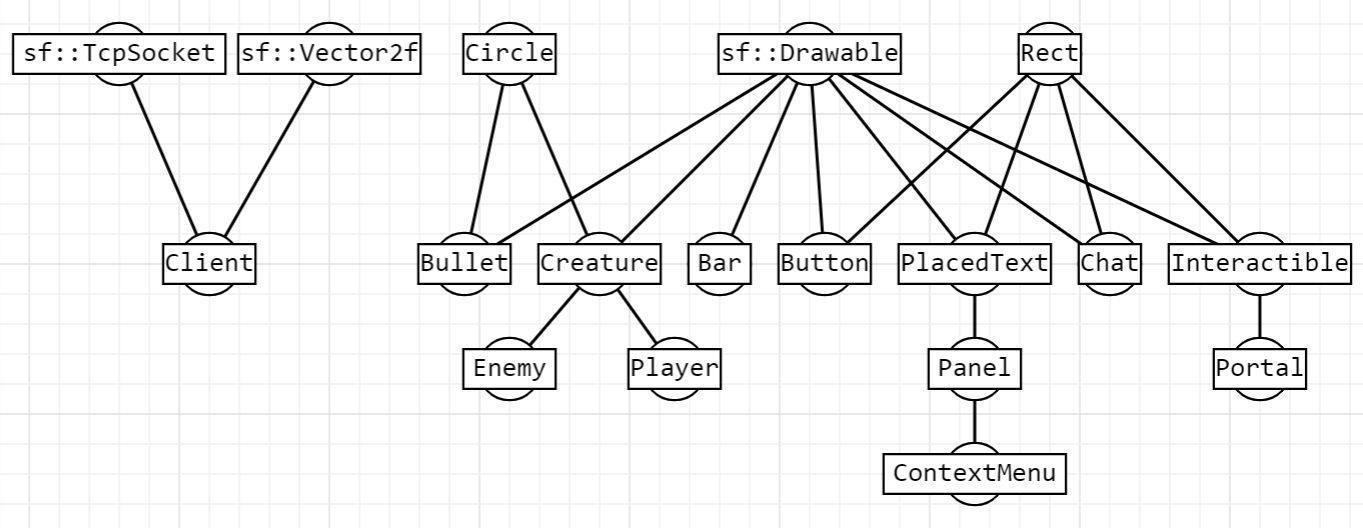
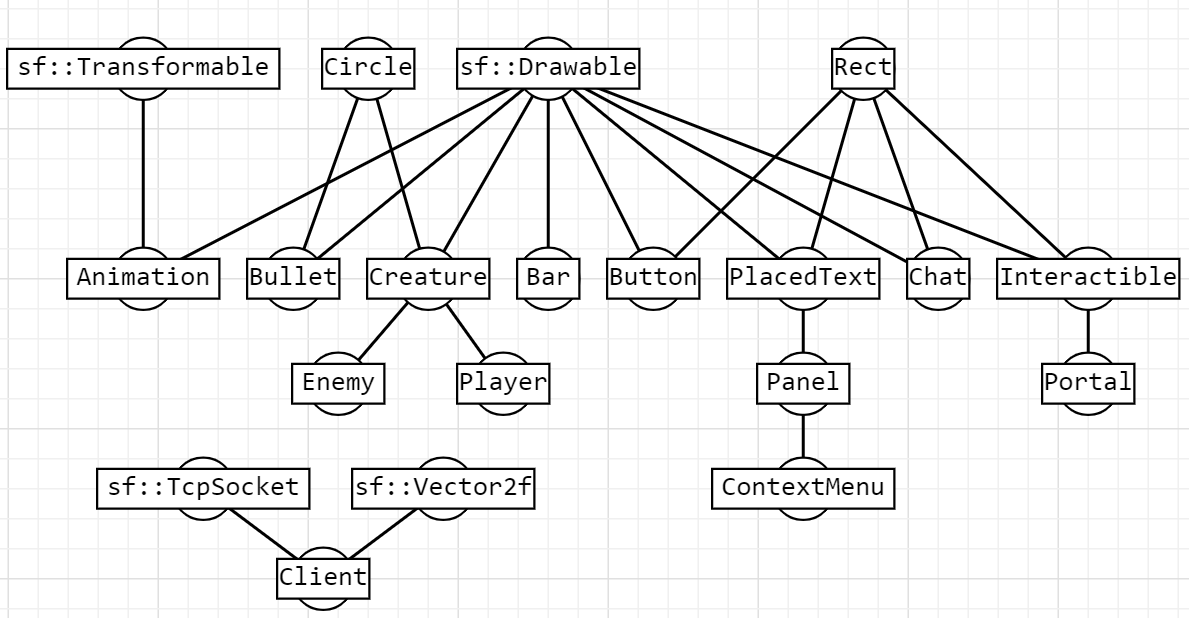
replace sprite to animation at player and enemies

Changed region(s): [[0.0, 0.0303, 0.9958, 1.0], [0.8402, 0.303, 0.8713, 0.3636]]

diff --git a/Headers/animation.h b/Headers/animation.h
@@ -1,11 +1,10 @@
 #include "../SFML-2.5.1/include/SFML/Graphics.hpp"
-#include "scale.h"
 
 ////////////////////////////////////////////////////////////
 // Class
 ////////////////////////////////////////////////////////////
 
-class Animation : public sf::Drawable {
+class Animation : public sf::Drawable, public sf::Transformable {
 public:
     sf::Texture texture;
     mutable sf::Sprite sprite;
@@ -17,16 +16,18 @@ public:
     bool isPlaying;
 
     Animation(std::string TexturFileName, int FrameAmount, sf::Vector2f frameSize, sf::Time duration);
+    void setTexture(std::string name);
     void draw(sf::RenderTarget& target, sf::RenderStates states = sf::RenderStates::Default) const;
+
     void play();
     void pause();
     void stop();
-    void setPosition(sf::Vector2f position) { sprite.setPosition(position); }
-    sf::Vector2f getPosition() const { return sprite.getPosition(); }
-    void setSize(sf::Vector2f size) {
-        sprite.setScale(sprite.getTextureRect().width / size.x, sprite.getTextureRect().height / size.y);
-    }
-    sf::Vector2f getsize() const { return {sprite.getGlobalBounds().width, sprite.getGlobalBounds().height}; }
+
+    void setSize(sf::Vector2f size);
+    sf::Vector2f getSize() const;
+    sf::Vector2f getGlobalSize() const;
+    sf::Vector2f getLocalSize() const;
+
 };
 
 ////////////////////////////////////////////////////////////
@@ -35,6 +36,7 @@ public:
 
 Animation::Animation(std::string TexturFileName, int FrameAmount, sf::Vector2f frameSize, sf::Time duration) {
     this->texture.loadFromFile(TexturFileName);
+    this->texture.setSmooth(true);
     this->frameAmount = FrameAmount;
     this->frameSize = frameSize;
     this->duration = duration;
@@ -44,13 +46,15 @@ Animation::Animation(std::string TexturFileName, int FrameAmount, sf::Vector2f f
     this->isPlaying = false;
     this->curTime = sf::Time::Zero;
 }
+
 void Animation::draw(sf::RenderTarget& target, sf::RenderStates states) const {
     if (isPlaying) {
         curTime = (curTime + localClock->getElapsedTime()) % duration;
         localClock->restart();
     }
-    sprite.setTextureRect({(int)frameSize.x * int((curTime / duration) * frameAmount),
-                           0, (int)frameSize.x, (int)frameSize.y});
+    sprite.setTextureRect({(int)frameSize.x * int((curTime / duration) * frameAmount), 0,
+                           (int)frameSize.x, (int)frameSize.y});
+    states.transform *= getTransform();
     target.draw(sprite, states);
 }
 
@@ -66,4 +70,22 @@ void Animation::pause() {
 void Animation::stop() {
     isPlaying = false;
     curTime = sf::Time::Zero;
+}
+
+void Animation::setTexture(std::string name) {
+    if (!texture.loadFromFile(name)) {
+        std::cout << "Can't load texture" << name << '\n';
+    } else {
+        sprite.setTexture(texture);
+    }
+}
+
+void Animation::setSize(sf::Vector2f size) {
+    setScale(size.x / sprite.getTextureRect().width, size.y / sprite.getTextureRect().height);
+}
+sf::Vector2f Animation::getGlobalSize() const {
+    return {sprite.getLocalBounds().width * getScale().x, sprite.getLocalBounds().height * getScale().y};
+}
+sf::Vector2f Animation::getLocalSize() const {
+    return {sprite.getLocalBounds().width, sprite.getLocalBounds().height};
 }

diff --git a/Headers/creature.h b/Headers/creature.h
@@ -21,8 +21,6 @@ public:
     Weapon *FirstWeapon, *SecondWeapon, *CurWeapon;
     sf::Time LastCheck;
     sf::Clock* localClock;
-    sf::Texture texture;
-    mutable sf::Sprite sprite;
     mutable PlacedText Name;
     Animation *animationSprite = nullptr;
 
@@ -42,11 +40,8 @@ public:
     };
     virtual void draw(sf::RenderTarget& target, sf::RenderStates states = sf::RenderStates::Default) const {
         if (animationSprite != nullptr) {
-            animationSprite->setPosition(getPosition() - animationSprite->getsize() / 2.f);
+            animationSprite->setPosition(getPosition());
             target.draw(*animationSprite, states);
-        } else {
-            sprite.setPosition(PosX, PosY);
-            target.draw(sprite, states);
         }
         Name.setPosition(PosX - Name.Width / 2.f, PosY - Radius - Name.Height);
         target.draw(Name, states);
@@ -70,16 +65,14 @@ public:
         PosY += Velocity.y;
     };
     virtual void UpdateState() {};
-    void SetTexture(str name) {
-        if (!texture.loadFromFile(name + ".png"))
-            std::cout << "Can't load texture" << name << ".png\n";
-        texture.setSmooth(true);
-        sprite.setTexture(texture);
-        if (Radius == 0)
-            setRadius(sprite.getGlobalBounds().width / 2.f);
-        else
-            sprite.setScale(Radius * 2.f / sprite.getGlobalBounds().width, Radius * 2.f / sprite.getGlobalBounds().height);
-        sprite.setOrigin(sprite.getLocalBounds().width / 2.f, sprite.getLocalBounds().height / 2.f);
+    void SetAnimation(std::string TexturFileName, int FrameAmount, sf::Vector2f frameSize, sf::Time duration) {
+        if (animationSprite != nullptr) {
+            delete animationSprite;
+        }
+        animationSprite = new Animation(TexturFileName, FrameAmount, frameSize, duration);
+        animationSprite->setSize({Radius * 2.f, Radius * 2.f});
+        animationSprite->setOrigin(animationSprite->getLocalSize() / 2.f);
+        animationSprite->play();
     };
     void ChangeWeapon(Weapon* to) { CurWeapon = to; }
 

diff --git a/Headers/player.h b/Headers/player.h
@@ -27,23 +27,22 @@ Player::Player() : Creature("Player", Fraction::Player) {
     Velocity = {0, 0}; MaxVelocity = 6;
     Acceleration = 0.6;
 
-    SetTexture("sources/textures/Player");
+    SetAnimation("sources/textures/Player.png", 1, {485, 485}, sf::seconds(1));
 }
 
 void Player::move(Location& location) {
-    std::map<char, bool> PressedKeys = {
-        {'w', sf::Keyboard::isKeyPressed(sf::Keyboard::W)},
-        {'a', sf::Keyboard::isKeyPressed(sf::Keyboard::A)},
-        {'s', sf::Keyboard::isKeyPressed(sf::Keyboard::S)},
-        {'d', sf::Keyboard::isKeyPressed(sf::Keyboard::D)}
+    std::vector<float> PressedKeys = {
+        sf::Keyboard::isKeyPressed(sf::Keyboard::W) ? 1.f : 0.f,
+        sf::Keyboard::isKeyPressed(sf::Keyboard::A) ? 1.f : 0.f,
+        sf::Keyboard::isKeyPressed(sf::Keyboard::S) ? 1.f : 0.f,
+        sf::Keyboard::isKeyPressed(sf::Keyboard::D) ? 1.f : 0.f
     };
 
     VelocityBuff = 1;
     if (sf::Keyboard::isKeyPressed(sf::Keyboard::LShift))
         VelocityBuff *= 2;
     
-    setTarget(getPosition() + sf::Vector2f{(PressedKeys['a'] || PressedKeys['d']) ? (PressedKeys['d'] ? 1.f : -1.f) : 0.f,
-                                         (PressedKeys['w'] || PressedKeys['s']) ? (PressedKeys['s'] ? 1.f : -1.f) : 0.f} * MaxVelocity * VelocityBuff);
+    setTarget(getPosition() + sf::Vector2f{PressedKeys[3] - PressedKeys[1], PressedKeys[2] - PressedKeys[0]} * MaxVelocity * VelocityBuff);
     Creature::move(location);
 }
 

diff --git a/Headers/enemy.h b/Headers/enemy.h
@@ -24,7 +24,7 @@ public:
         Radius = 60;
         CurWeapon = new Pistol();
 
-        SetTexture("sources/textures/DistortedScientist");
+        SetAnimation("sources/textures/DistortedScientist.png", 1, {650, 635}, sf::seconds(1));
 
         Name.ShowText = true;
     }
@@ -55,8 +55,7 @@ public:
         Radius = 60;
         CurWeapon = new Shotgun();
 
-        animationSprite = new Animation("sources/textures/scottpilgrim.png", 8, {108, 140}, sf::seconds(1));
-        animationSprite->play();
+        SetAnimation("sources/textures/scottpilgrim.png", 8, {108, 140}, sf::seconds(1));
 
         Name.ShowText = true;
     }
